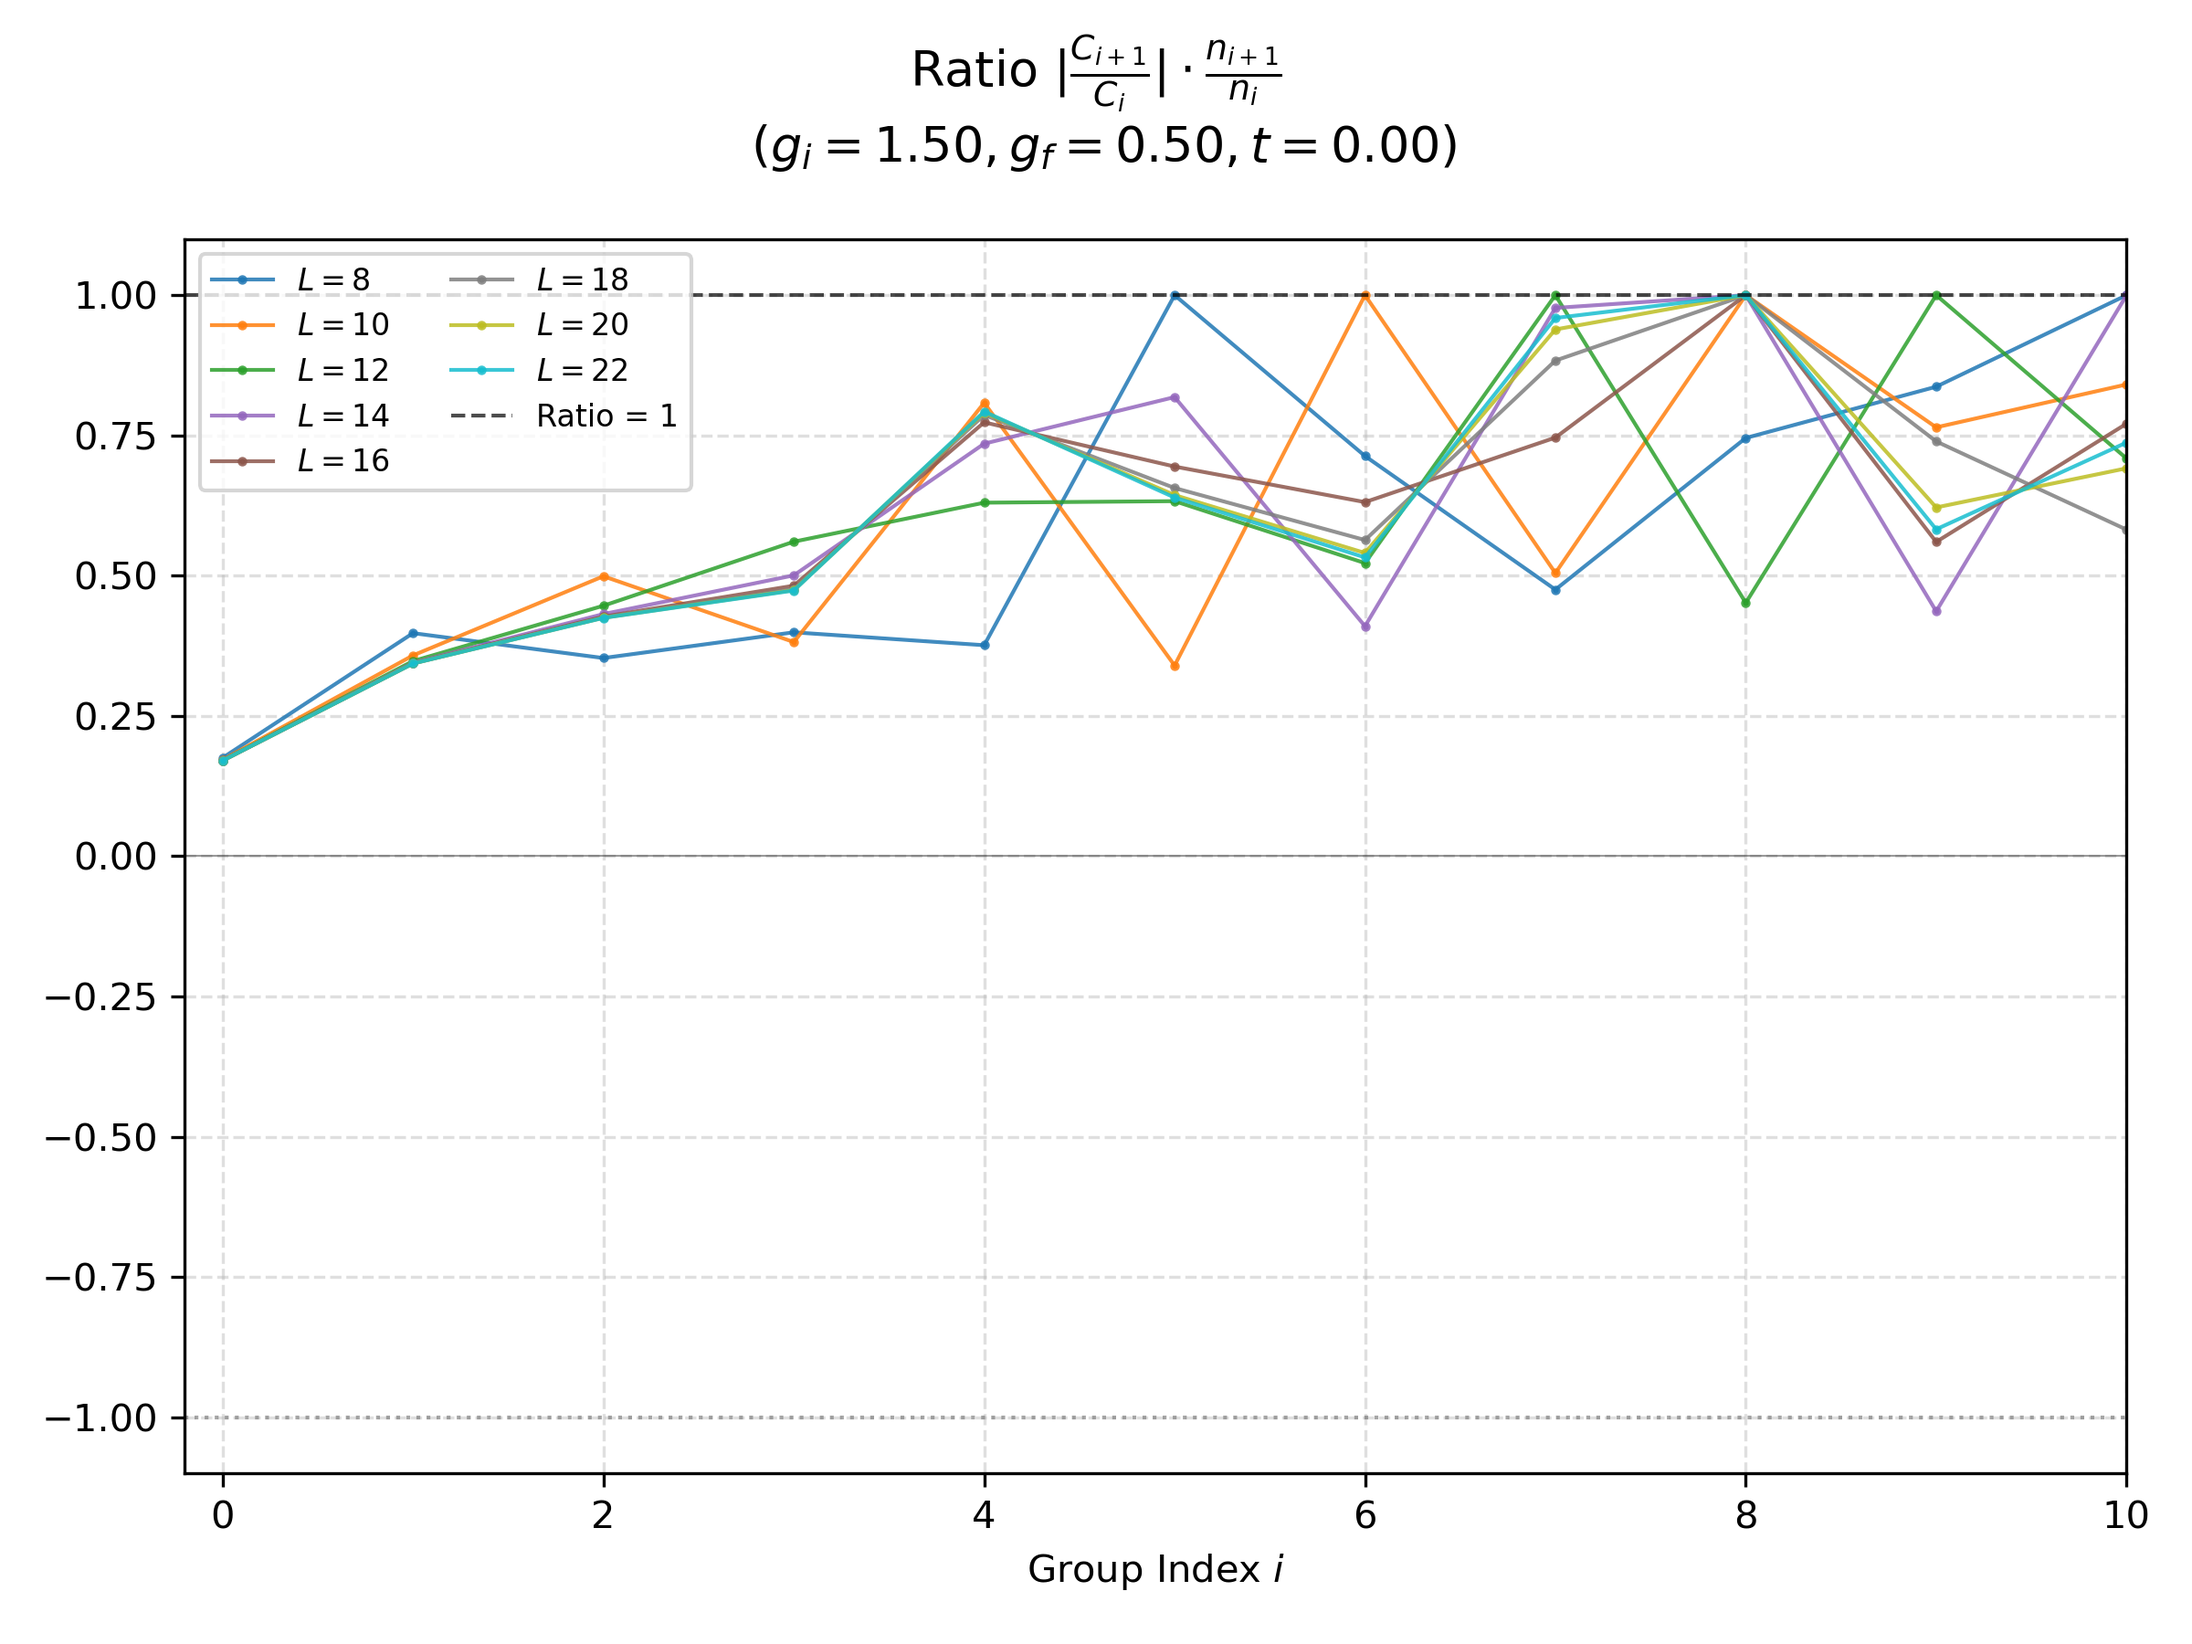
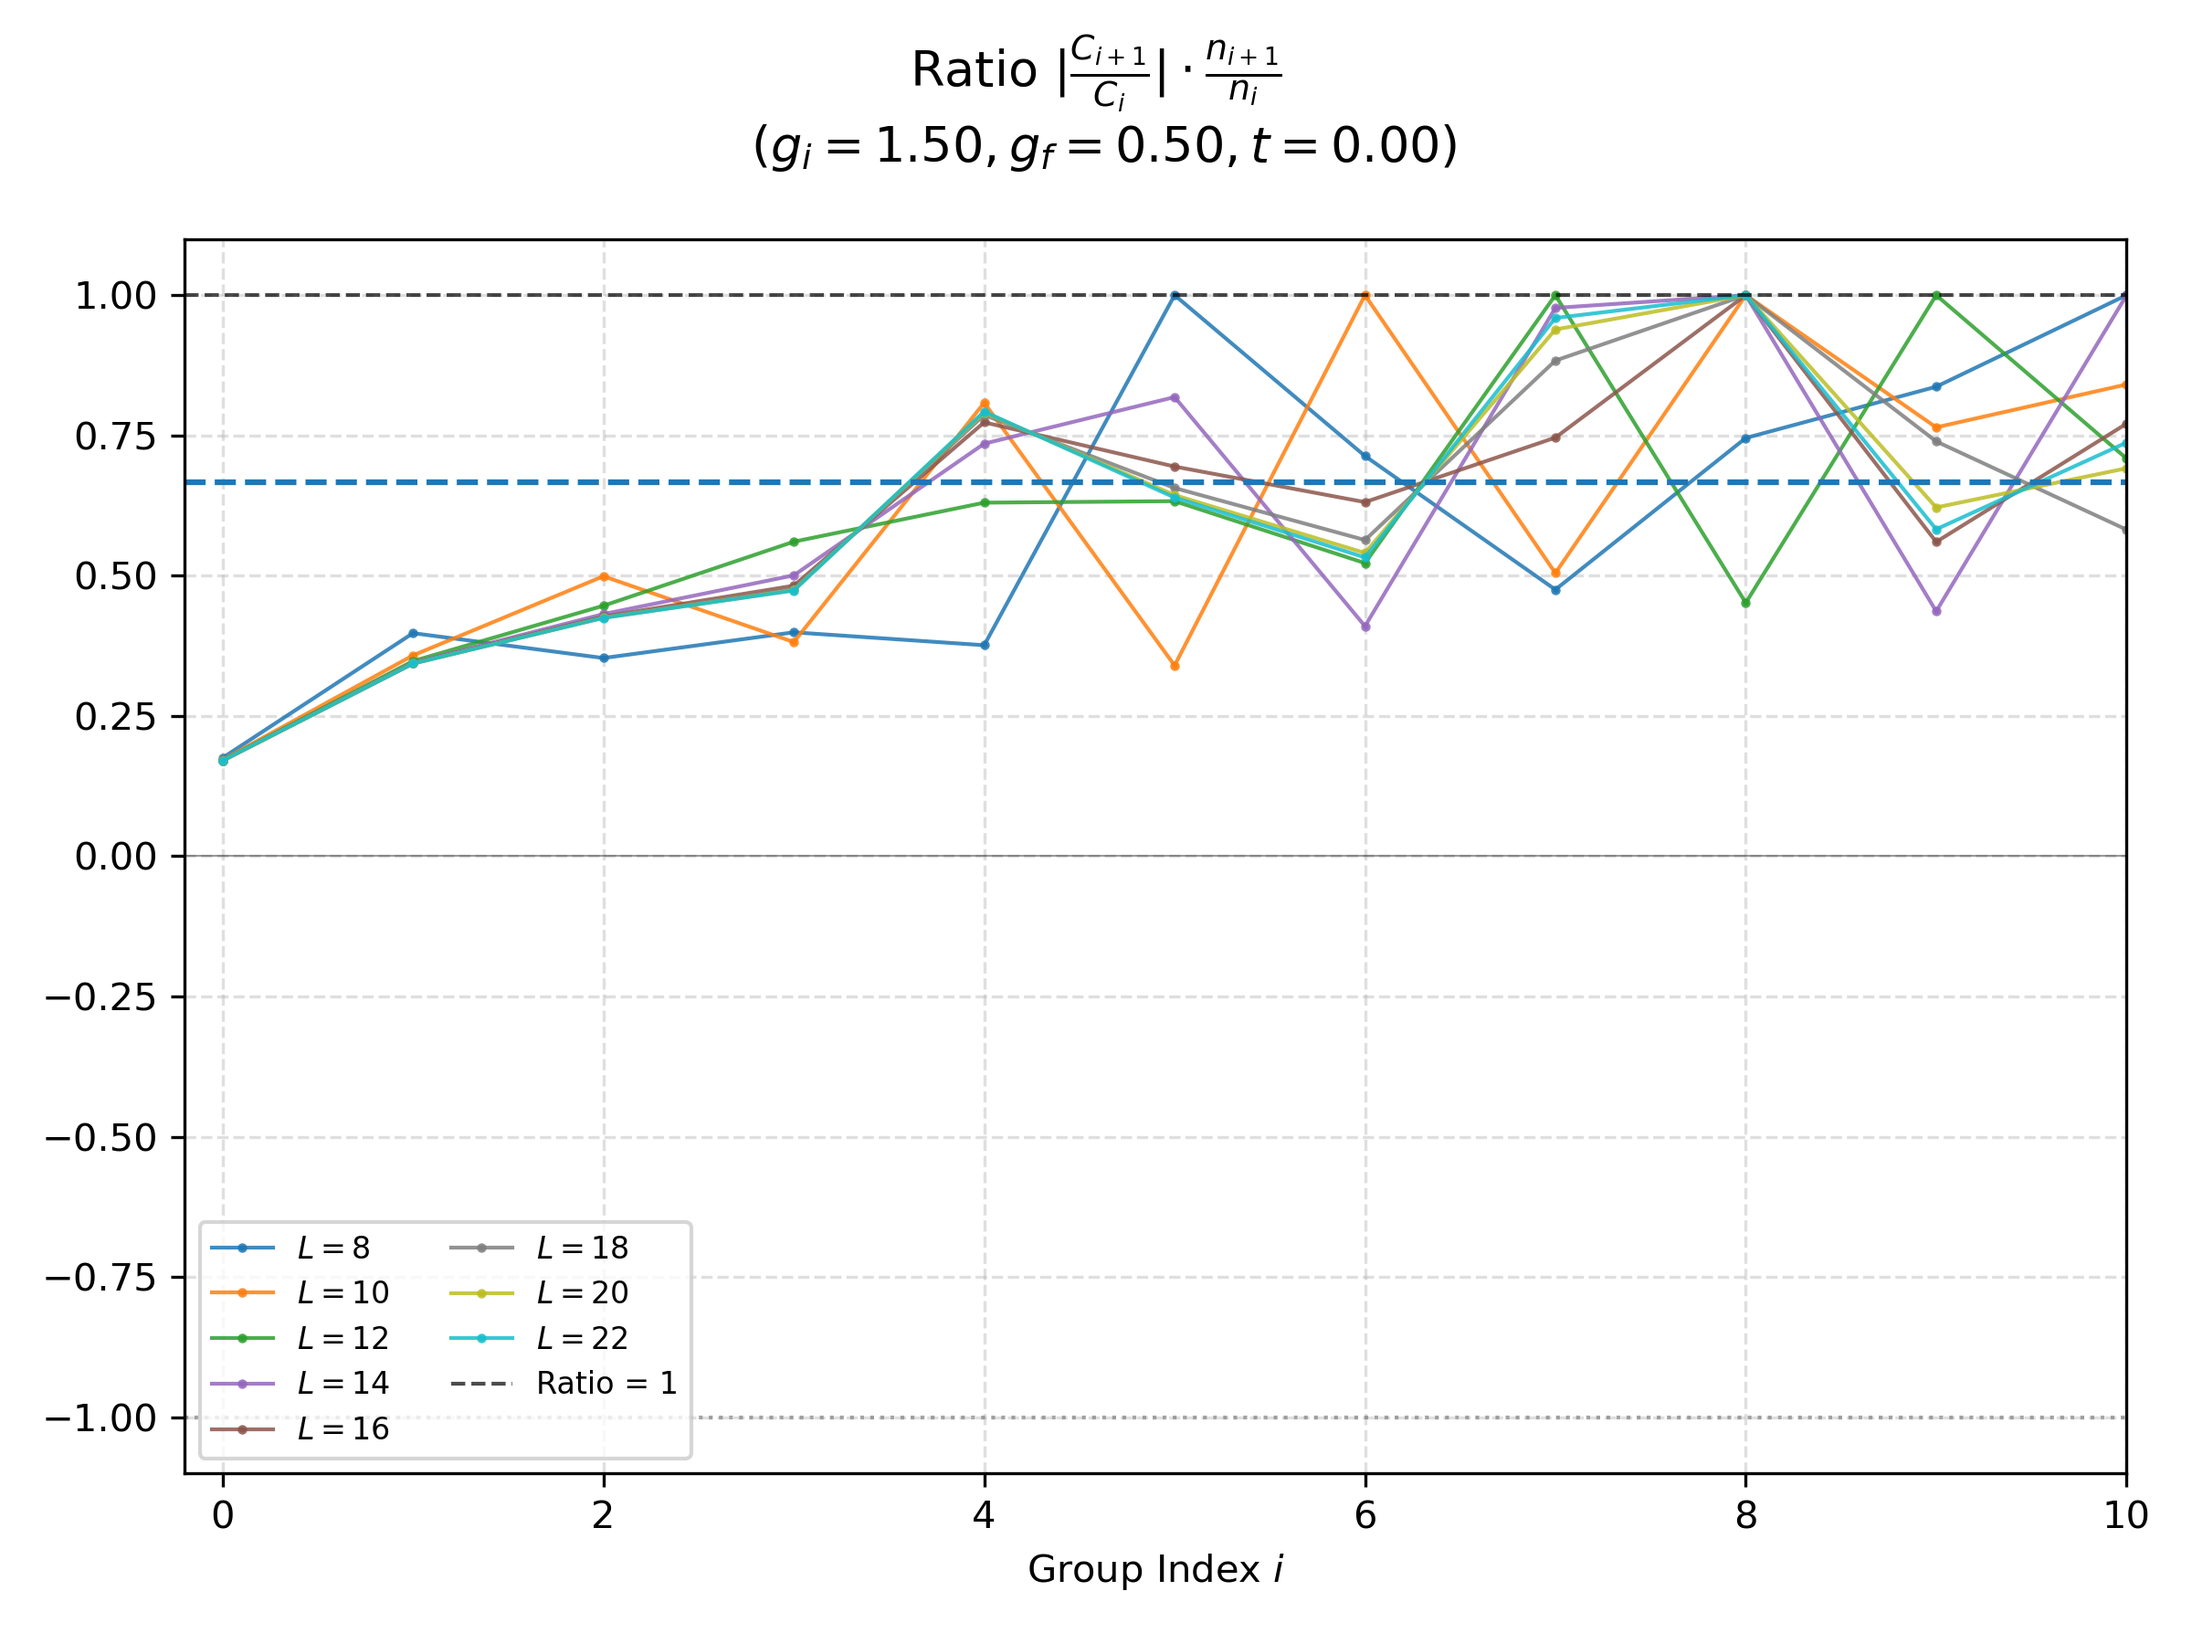
added

diff --git a/plot_wht_L_ratio.py b/plot_wht_L_ratio.py
@@ -89,7 +89,7 @@ if __name__ == "__main__":
 
     # Create a 2-panel plot (one for Continuous=False, one for Continuous=True)
     fig, axes = plt.subplots(1, 1, figsize=(8, 6), sharey=True)
-    colors = cm.viridis(np.arange(0,len(Ls)))
+    colors = cm.tab10(np.linspace(0,1,len(Ls)))
     ax = axes
     continuous= True
     
@@ -152,6 +152,8 @@ if __name__ == "__main__":
     ax.grid(True, which="both", ls="--", alpha=0.4)
     ax.legend(fontsize=8, ncol=2)
     ax.set_xlim(-0.2,10)
+
+    ax.axhline(y=1/gi,linestyle="dashed")
     
     fig.suptitle(rf"Ratio "+r"$|\frac{C_{i+1}}{C_{i}}|\cdot \frac{n_{i+1}}{n_{i}}$"+"\n"+rf" $( g_i={gi:.2f}, g_f={gf:.2f},t={t_idx*0.01:.2f})$", fontsize=13)
     plt.tight_layout()
